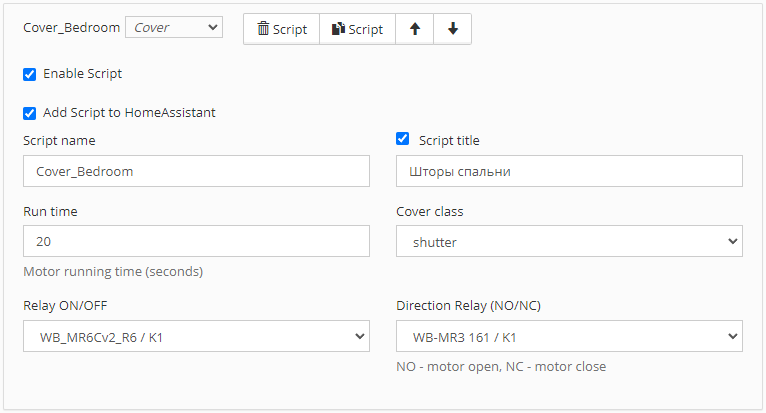
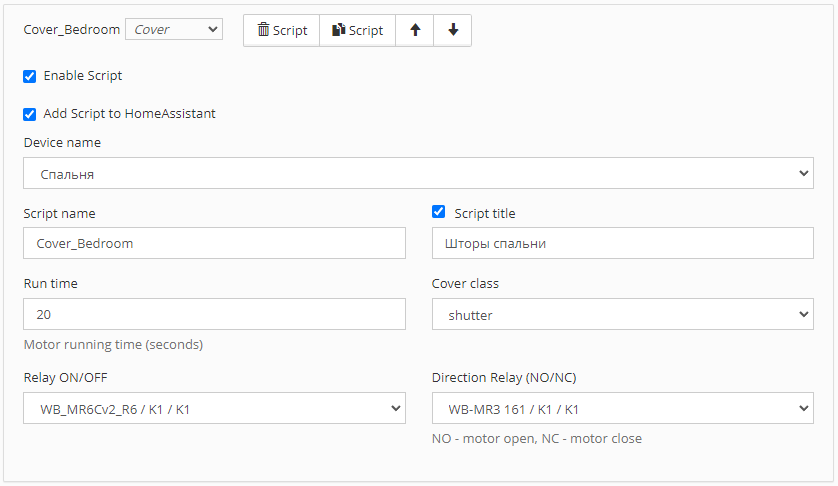
The ability to combine device channels into a virtual device (area/zone) has been added

diff --git a/README.md b/README.md
@@ -32,6 +32,6 @@
 Скачайте файл пакета на устройство WirenBoard и установите с помощью dpkg.
 
 ```
-wget https://github.com/4mr/wb-engine/releases/download/v0.2.25/wb-engine_0.2.25_armhf.deb
-dpkg -i wb-engine_0.2.25_armhf.deb
+wget https://github.com/4mr/wb-engine/releases/download/v0.3.0/wb-engine_0.3.0_armhf.deb
+dpkg -i wb-engine_0.3.0_armhf.deb
 ```
